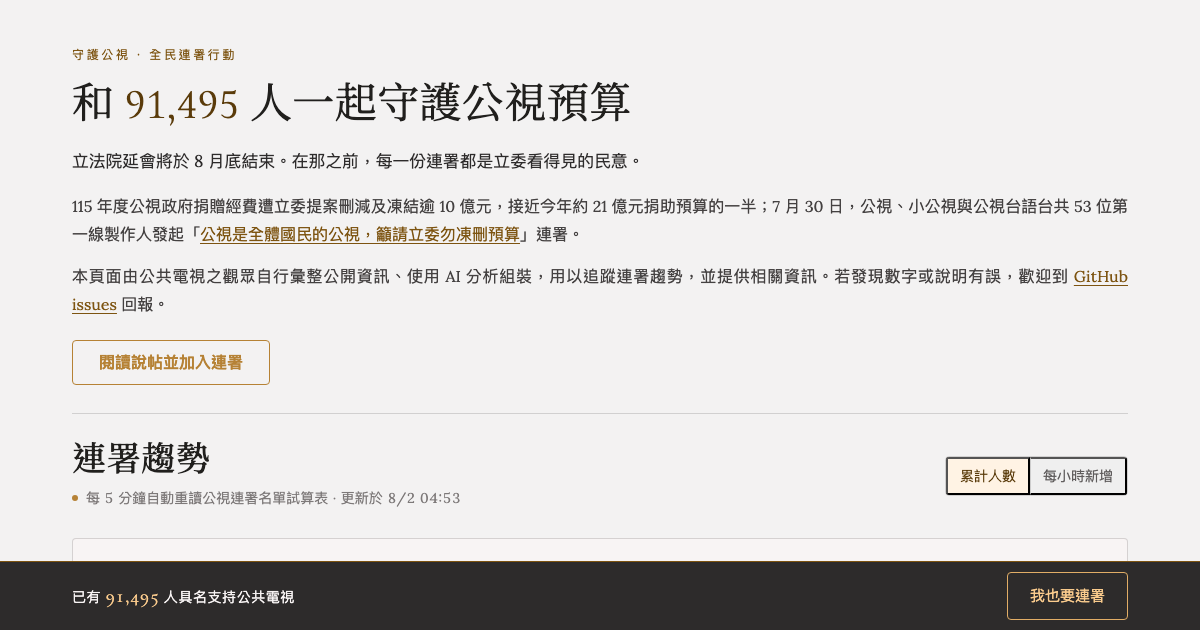
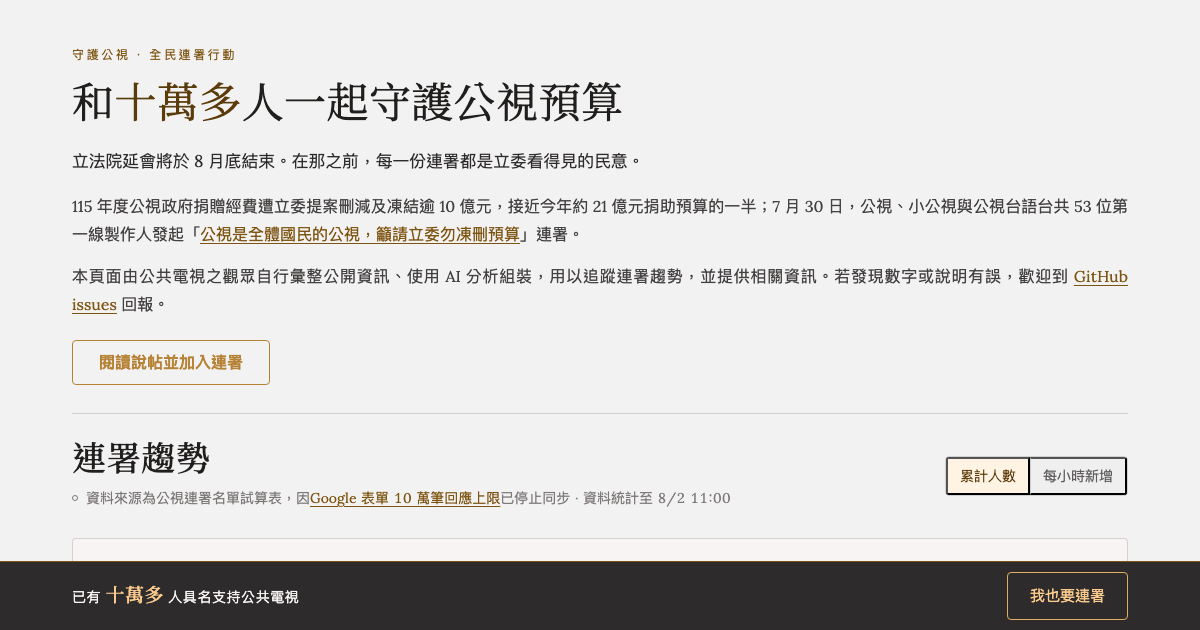
Sync page title with hero heading, refresh og-image screenshot
Title/og:title/twitter:title now match the h1 ("和十萬多人一起守護公視預算")
instead of a separately-written description, so the browser tab and
link previews read consistently with the page itself.

Also recaptures screenshots/og-image.png from the current live layout
(headless Chrome, 1200x630) — the stored one still showed the old
animated "live" status dot and dynamic signature count from before the
Google Form hit its response cap.

Changed region(s): [[0.0925, 0.1206, 0.5242, 0.2111], [0.0617, 0.7841, 0.6167, 0.8143], [0.0925, 0.9349, 0.2467, 0.9651]]

diff --git a/index.html b/index.html
@@ -3,15 +3,15 @@
 <head>
 <meta charset="utf-8">
 <meta name="viewport" content="width=device-width, initial-scale=1">
-<title>守護公視全民連署趨勢看板｜115年度公視預算刪凍追蹤</title>
+<title>和十萬多人一起守護公視預算</title>
 <meta name="description" content="追蹤「守護公視全民連署」的連署人數成長趨勢,並整理115年度公視預算遭立法院提案刪凍的相關資訊。">
 <meta property="og:type" content="website">
 <meta property="og:url" content="https://mrorz.github.io/pts-budget-2026/">
-<meta property="og:title" content="守護公視全民連署趨勢看板｜115年度公視預算刪凍追蹤">
+<meta property="og:title" content="和十萬多人一起守護公視預算">
 <meta property="og:description" content="追蹤「守護公視全民連署」的連署人數成長趨勢,並整理115年度公視預算遭立法院提案刪凍的相關資訊。">
 <meta property="og:image" content="https://mrorz.github.io/pts-budget-2026/screenshots/og-image.png">
 <meta name="twitter:card" content="summary_large_image">
-<meta name="twitter:title" content="守護公視全民連署趨勢看板｜115年度公視預算刪凍追蹤">
+<meta name="twitter:title" content="和十萬多人一起守護公視預算">
 <meta name="twitter:description" content="追蹤「守護公視全民連署」的連署人數成長趨勢,並整理115年度公視預算遭立法院提案刪凍的相關資訊。">
 <meta name="twitter:image" content="https://mrorz.github.io/pts-budget-2026/screenshots/og-image.png">
 <script src="./support.js"></script>
